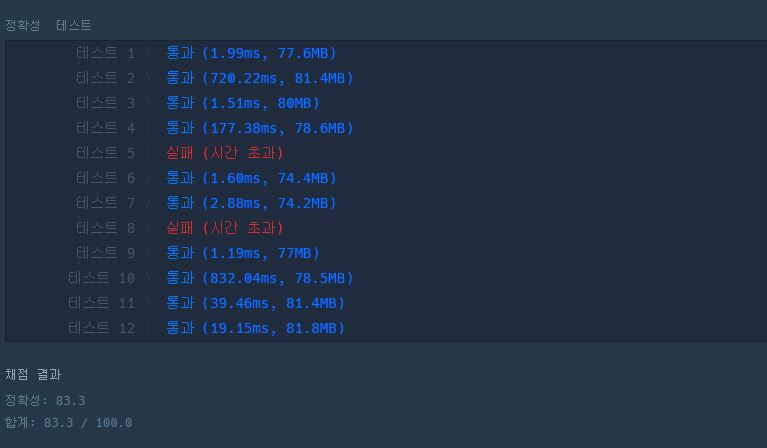
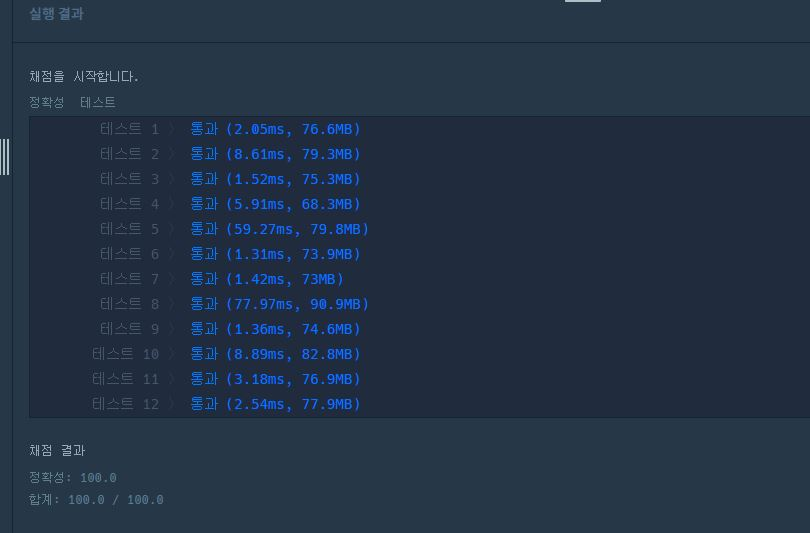
211230

diff --git a/프로그래머스/완전탐색/02_소수찾기/02_Solution.java b/프로그래머스/완전탐색/02_소수찾기/02_Solution.java
@@ -20,7 +20,7 @@ class Solution {
             if (sosu > 1){
                 //sosuNum 이 소수인지 체크
                 int cnt = 0;
-                for (int i=2;i<sosu;i++){
+                for (int i=2;i<=Math.sqrt(sosu);i++){
                     if(sosu%i == 0){
                         cnt++;
                     }
